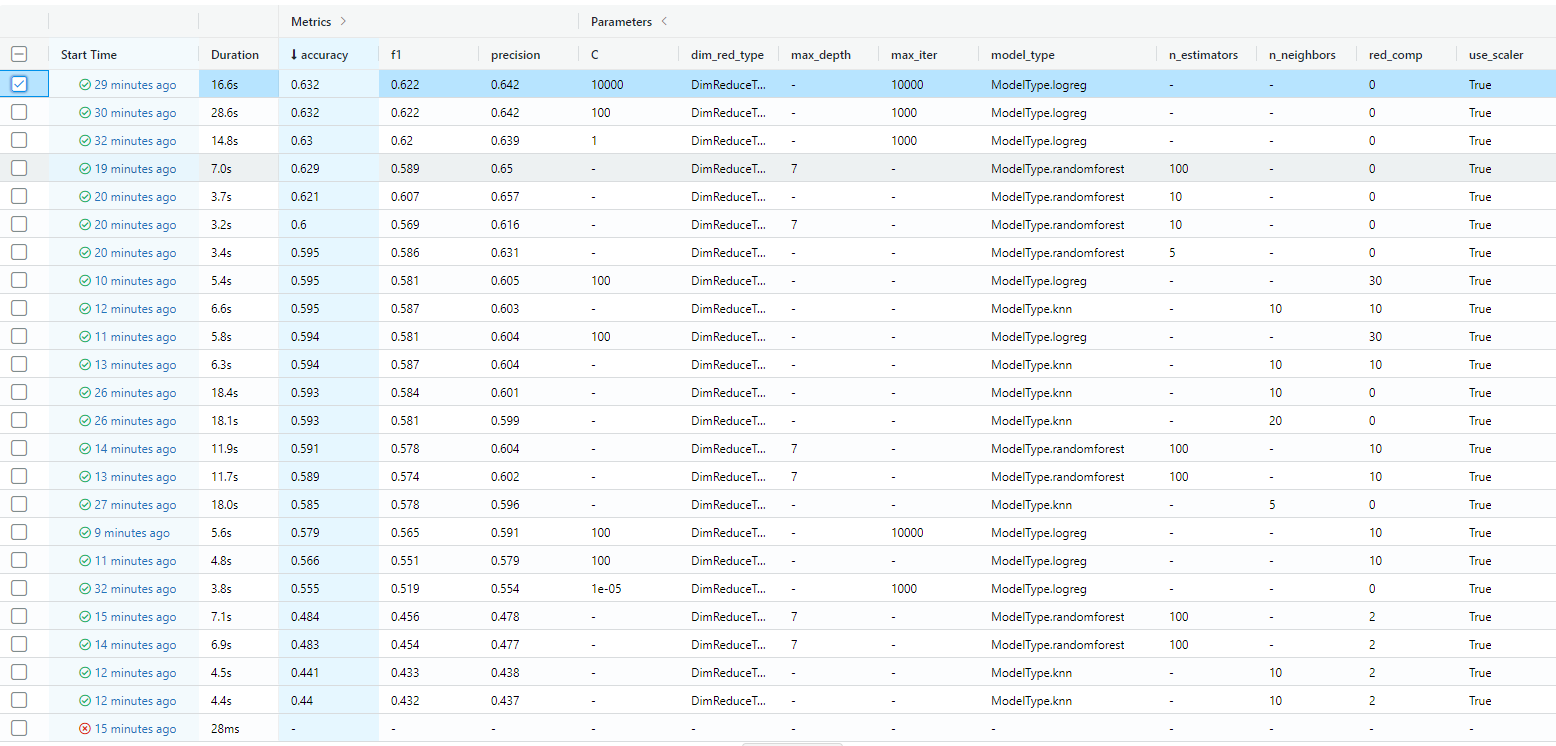
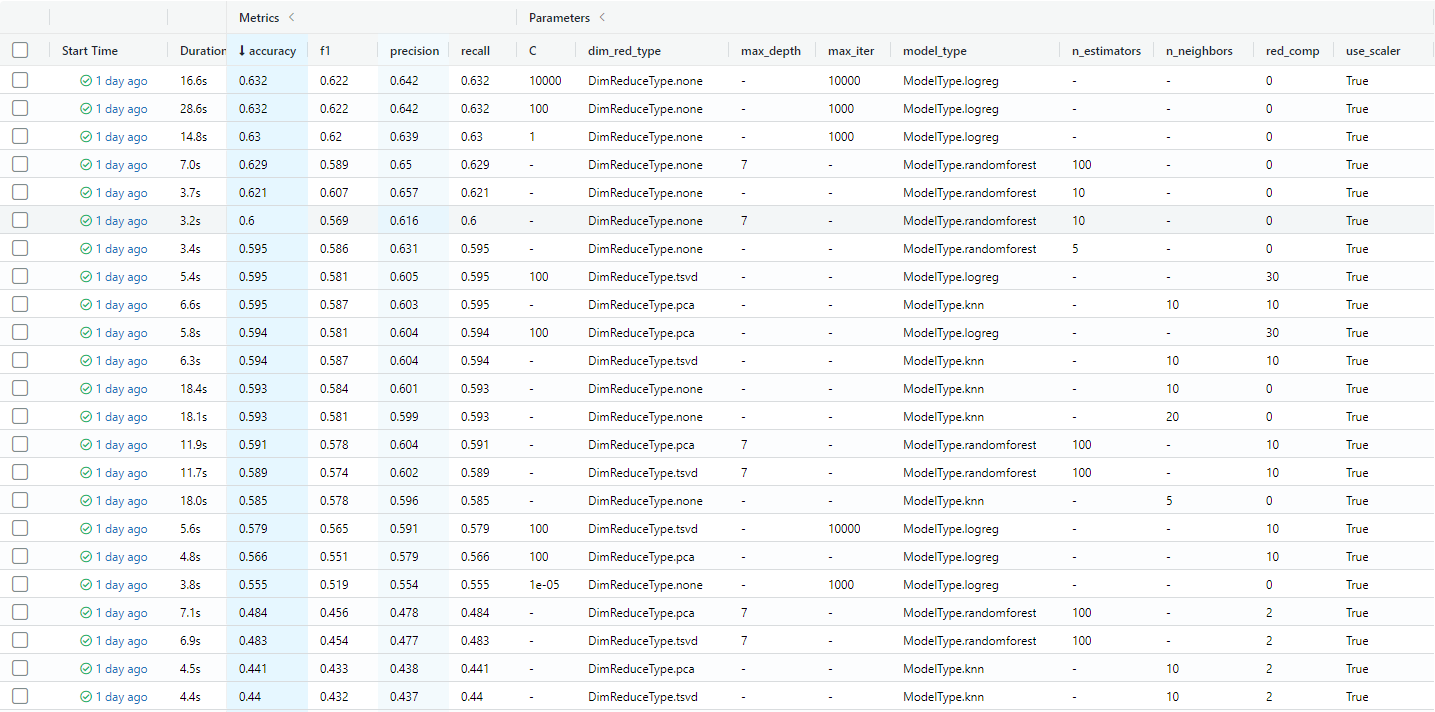
Сделала возможной передачу в аргументах целых выражений (например, linspace, logspace, uniform, loguniform для перебора параметров). Реализовала NestedCV для рандомного и сеточного поиска. Чуть упорядочила код, изменила скрин для 8 задания

diff --git a/src/forest_ml/train.py b/src/forest_ml/train.py
@@ -5,30 +5,13 @@ import click
 import mlflow
 import mlflow.sklearn
 import numpy as np
-import distutils
-from sklearn.metrics import accuracy_score, precision_score, recall_score, f1_score
-from sklearn.model_selection import cross_validate
 
+from sklearn.model_selection import cross_validate, GridSearchCV, KFold, RandomizedSearchCV
+
+from .params import get_params_distr, parse_hyperparams
 from .data import get_dataset
 from .pipeline import create_pipeline
-from .model_type import ModelType
-from .dim_red_type import DimReduceType
-
-
-def is_float(str):
-    try:
-        float(str)
-        return True
-    except ValueError:
-        return False
-
-
-def is_bool(str):
-    try:
-        bool(distutils.util.strtobool(str))
-        return True
-    except ValueError:
-        return False
+from .defs import DimReduceType, ModelType, TuneType
 
 
 @click.command(context_settings=dict(
@@ -49,6 +32,20 @@ def is_bool(str):
     show_default=True,
 )
 @click.option(
+    "--tuning",
+    default='auto_random',
+    type=click.Choice(TuneType.__members__),
+    callback=lambda c, p, v: getattr(TuneType, v) if v else None,
+    show_default=True,
+)
+@click.option(
+    "--model-type",
+    default='logreg',
+    type=click.Choice(ModelType.__members__),
+    callback=lambda c, p, v: getattr(ModelType, v) if v else None,
+    show_default=True,
+)
+@click.option(
     "--random-state",
     default=42,
     type=int,
@@ -62,65 +59,65 @@ def is_bool(str):
     show_default=True,
 )
 @click.option(
-    "--red-comp",
-    default=0,
-    type=int,
-    show_default=True,
-)
-@click.option(
     "--use-scaler",
     default=True,
     type=bool,
-    show_default=True,
-)
-@click.option(
-    "--model-type",
-    default='logreg',
-    type=click.Choice(ModelType.__members__),
-    callback=lambda c, p, v: getattr(ModelType, v) if v else None,
     show_default=True,
 )
 @click.argument('hyperparams', nargs=-1, type=click.UNPROCESSED)
 def train(
         dataset_path: Path,
         save_model_path: Path,
+        tuning: TuneType,
+        model_type: ModelType,
         random_state: int,
         red_type: DimReduceType,
-        red_comp: int,
         use_scaler: bool,
-        model_type: ModelType,
         hyperparams: dict,
 ) -> None:
     features, target = get_dataset(dataset_path)
     # mlflow.set_experiment("default")
 
     with mlflow.start_run():
-        # парсим экстра-параметры
-        hyperparams_dict = {}
-        for hyperparam in hyperparams:
-            # конвертация типов
-            curr_split = hyperparam.split('=')
-            if curr_split[1].isnumeric():
-                curr_split[1] = int(curr_split[1])
-            elif is_float(curr_split[1]):
-                curr_split[1] = float(curr_split[1])
-            elif is_bool(curr_split[1]):
-                curr_split[1] = bool(curr_split[1])
-            hyperparams_dict.update([curr_split])
-
-        if hyperparams_dict.get('c') is not None:
-            hyperparams_dict['C'] = hyperparams_dict.pop('c') # единственный параметр в Uppercase для LogReg
+        hyperparams_dict = parse_hyperparams(hyperparams)
 
         # создаём пайплайн
-        pipeline = create_pipeline(red_type, red_comp, use_scaler, model_type, hyperparams_dict, random_state)
+        pipeline = create_pipeline(red_type, use_scaler, model_type, hyperparams_dict, random_state)
+        metrics_names = ['accuracy', 'f1_weighted', 'precision_weighted', 'recall_weighted']
 
-        cv_scores = cross_validate(pipeline,
-                                    features,
-                                    target,
-                                    cv=5,
-                                    return_estimator=True,
-                                    return_train_score=True,
-                                    scoring=['accuracy', 'f1_weighted', 'precision_weighted', 'recall_weighted'])
+        if tuning == TuneType.manual:
+            cv_scores = cross_validate(pipeline,
+                                       features,
+                                       target,
+                                       cv=5,
+                                       return_estimator=True,
+                                       return_train_score=True,
+                                       scoring=metrics_names)
+
+        elif tuning == TuneType.auto_random or tuning == TuneType.auto_grid:
+            params_for_search = {}
+
+            for hyperparam_name, hyperparam_space in hyperparams_dict.items():
+                if hyperparam_name == 'n_components':
+                    pipe_param_name = 'reductor__' + hyperparam_name
+                else:
+                    pipe_param_name = 'classifier__' + hyperparam_name
+
+                params_for_search[pipe_param_name] = hyperparam_space
+
+            print(params_for_search)
+
+            inner_cv = KFold(n_splits=3,  shuffle=True, random_state=random_state)
+            outer_cv = KFold(n_splits=10, shuffle=True, random_state=random_state)
+
+            # для внутреннего цикла согласно заданию одна метрика
+            if tuning == TuneType.auto_random:
+                param_searcher = RandomizedSearchCV(estimator=pipeline, param_distributions=params_for_search, scoring='accuracy', cv=inner_cv)
+            elif tuning == TuneType.auto_grid:
+                param_searcher = GridSearchCV(estimator=pipeline, param_grid=params_for_search, scoring='accuracy', cv=inner_cv)
+
+            # у всяких сёрчеров параметров есть метод predict, который автоматически адресуется к best_estimator.
+            cv_scores = cross_validate(param_searcher, X=features, y=target, cv=outer_cv, scoring=metrics_names, return_estimator=True, return_train_score=True)
 
         # считаем метрики
         metrics = {}
@@ -134,7 +131,6 @@ def train(
         all_params['model_type'] = model_type
         all_params['use_scaler'] = use_scaler
         all_params['dim_red_type'] = red_type
-        all_params['red_comp'] = red_comp
 
         # записываем в MLFlow и сохраняем модель
         mlflow.log_params(all_params)

diff --git a/src/forest_ml/params.py b/src/forest_ml/params.py
@@ -1,0 +1,59 @@
+import json
+import numpy as np
+
+from scipy.stats import loguniform, uniform
+from numpy import linspace, logspace
+from .defs import TuneType
+
+
+def get_params_distr(conf_path: str, tune_type: TuneType):
+    if tune_type == TuneType.manual:
+        return
+
+    with open(conf_path) as json_file:
+        hyperparams_conf = json.load(json_file)
+        params_distr = {}
+
+        for obj_in_pipe in hyperparams_conf:
+            comp_name = obj_in_pipe[0]
+            params_distr[comp_name] = {}
+
+            for param_in_obj in obj_in_pipe[1]:
+                param_name = param_in_obj[1]
+                if obj_in_pipe[1]['type'] == 'range':
+                    min_val = obj_in_pipe[1]['min']
+                    max_val = obj_in_pipe[1]['max']
+
+                    if tune_type == TuneType.auto_random:
+                        if max_val - min_val > 1000:
+                            params_distr[comp_name] = loguniform.stats(min_val, max_val)
+                        else:
+                            params_distr[comp_name] = uniform.stats(min_val, max_val)
+                    elif tune_type == TuneType.auto_grid:
+                        if max_val - min_val > 1000:
+                            params_distr[comp_name] = np.logspace(min_val, max_val, 50)
+                        else:
+                            params_distr[comp_name] = np.linspace(min_val, max_val, 50)
+
+                elif obj_in_pipe[1]['type'] == 'list':
+                    params_distr[comp_name] = obj_in_pipe['list']
+
+        return params_distr
+
+
+def parse_hyperparams(click_in):
+    # парсим экстра-параметры
+    hyperparams_dict = {}
+    for hyperparam in click_in:
+        # конвертация типов
+        curr_split = hyperparam.split('=')
+        if len(curr_split) != 2:
+            continue
+
+        curr_split[1] = eval(curr_split[1]) # Выполняет оценку выражения по строке
+        hyperparams_dict.update([curr_split])
+
+    if hyperparams_dict.get('c') is not None:
+        hyperparams_dict['C'] = hyperparams_dict.pop('c')  # единственный параметр в Uppercase для LogReg
+
+    return hyperparams_dict

diff --git a/src/forest_ml/pipeline.py b/src/forest_ml/pipeline.py
@@ -4,21 +4,28 @@ from sklearn.neighbors import KNeighborsClassifier
 from sklearn.pipeline import Pipeline
 from sklearn.preprocessing import StandardScaler
 from sklearn.decomposition import PCA, TruncatedSVD
-from .model_type import ModelType
-from .dim_red_type import DimReduceType
+from .defs import ModelType, DimReduceType
+
 
 def create_pipeline(
-    use_dim_red: DimReduceType, dim_red_comp: int, use_scaler: bool, model_type: ModelType, hyperparams: dict, random_state: int
+    use_dim_red: DimReduceType, use_scaler: bool, model_type: ModelType, hyperparams: dict, random_state: int
 ) -> Pipeline:
     pipeline_steps = []
     if use_scaler:
         pipeline_steps.append(("scaler", StandardScaler()))
 
     reductor = None
+    n_components = hyperparams.pop('n_components', None)
     if use_dim_red == DimReduceType.pca:
-        reductor = PCA(n_components=dim_red_comp)
+        if n_components is not None:
+            reductor = PCA(n_components=n_components)
+        else:
+            reductor = PCA()
     elif use_dim_red == DimReduceType.tsvd:
-        reductor = TruncatedSVD(n_components=dim_red_comp)
+        if n_components is not None:
+            reductor = TruncatedSVD(n_components=n_components)
+        else:
+            reductor = TruncatedSVD()
 
     if reductor is not None:
         pipeline_steps.append(
@@ -34,14 +41,17 @@ def create_pipeline(
         clf = RandomForestClassifier(random_state=random_state)
     elif model_type == ModelType.knn:
         clf = KNeighborsClassifier() #no random_state
+    elif model_type == None:
+        clf = None
     else:
         raise ValueError('Unknown model type')
 
-    clf.set_params(**hyperparams)
-    pipeline_steps.append(
-        (
-            "classifier", clf
+    if clf is not None:
+        clf.set_params(**hyperparams)
+        pipeline_steps.append(
+            (
+                "classifier", clf
+            )
         )
-    )
 
     return Pipeline(steps=pipeline_steps)

diff --git a/src/forest_ml/data.py b/src/forest_ml/data.py
@@ -4,12 +4,11 @@ from typing import Tuple
 
 import click
 import pandas as pd
-from sklearn.model_selection import train_test_split
 
 
 def get_dataset(
     csv_path: Path
-) -> Tuple[pd.DataFrame, pd.DataFrame, pd.Series, pd.Series]:
+) -> Tuple[pd.DataFrame, pd.Series]:
     dataset = pd.read_csv(csv_path)
     click.echo(f"Dataset shape: {dataset.shape}.")
     features = dataset.drop("Cover_Type", axis=1)

diff --git a/src/forest_ml/defs.py b/src/forest_ml/defs.py
@@ -1,0 +1,19 @@
+from enum import Enum
+
+
+class DimReduceType(Enum):
+    none = 0
+    pca = 2
+    tsvd = 3
+
+
+class ModelType(Enum):
+    logreg = 1
+    knn = 2
+    randomforest = 3
+
+
+class TuneType(Enum):
+    auto_random = 0
+    auto_grid = 1
+    manual = 2

diff --git a/README.md b/README.md
@@ -1,1 +1,12 @@
+# Forest ML
+
+## Experiment with manual hyperparameters tuning and CV
+For estimating model performance chosen 4 metrics: 
+* accuracy, 
+* F1 weighted, 
+* precision weighted, 
+* recall weighted
+
+Below table with results of experiment sorted by accuracy. 
+
 ![mlflow_manual_tune.png](mlflow_manual_tune.png)
